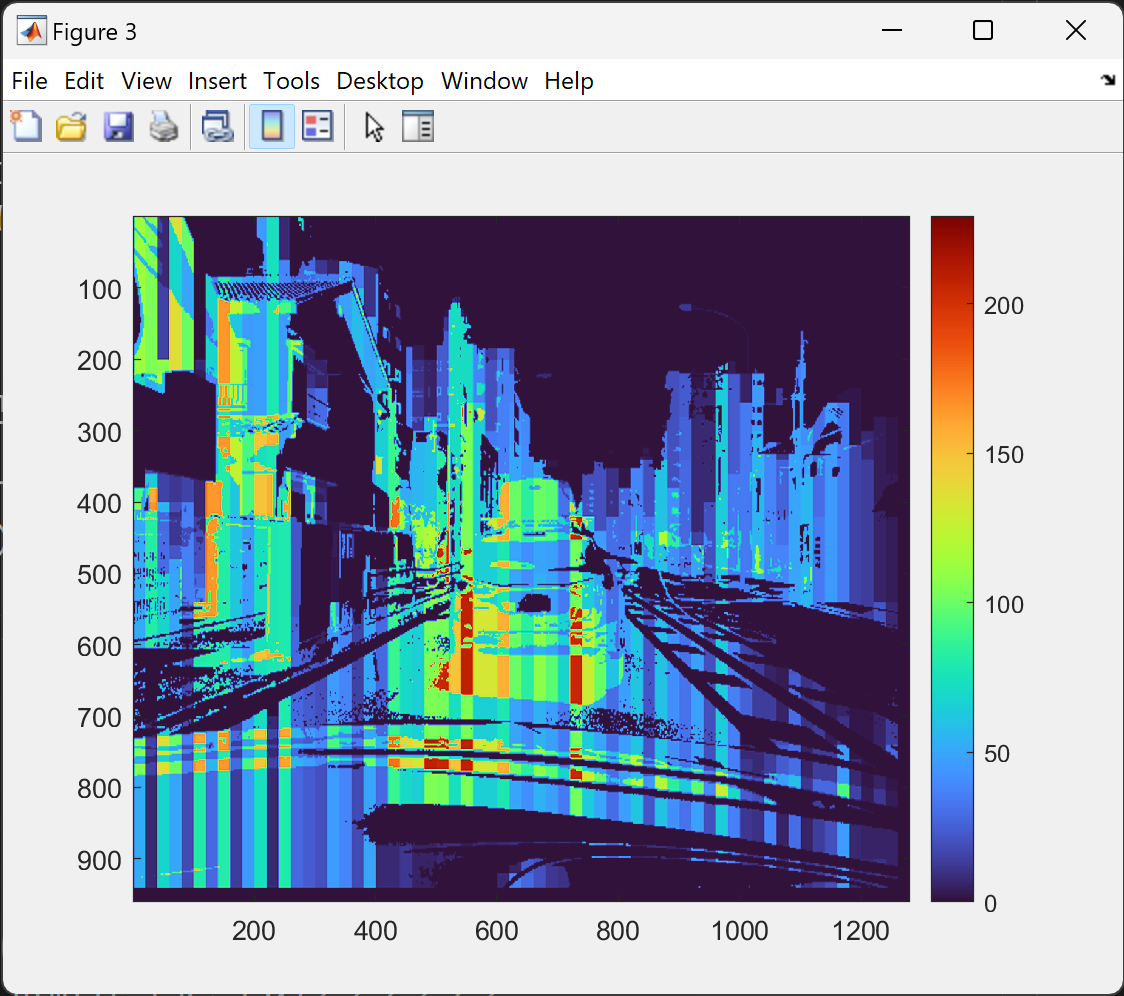
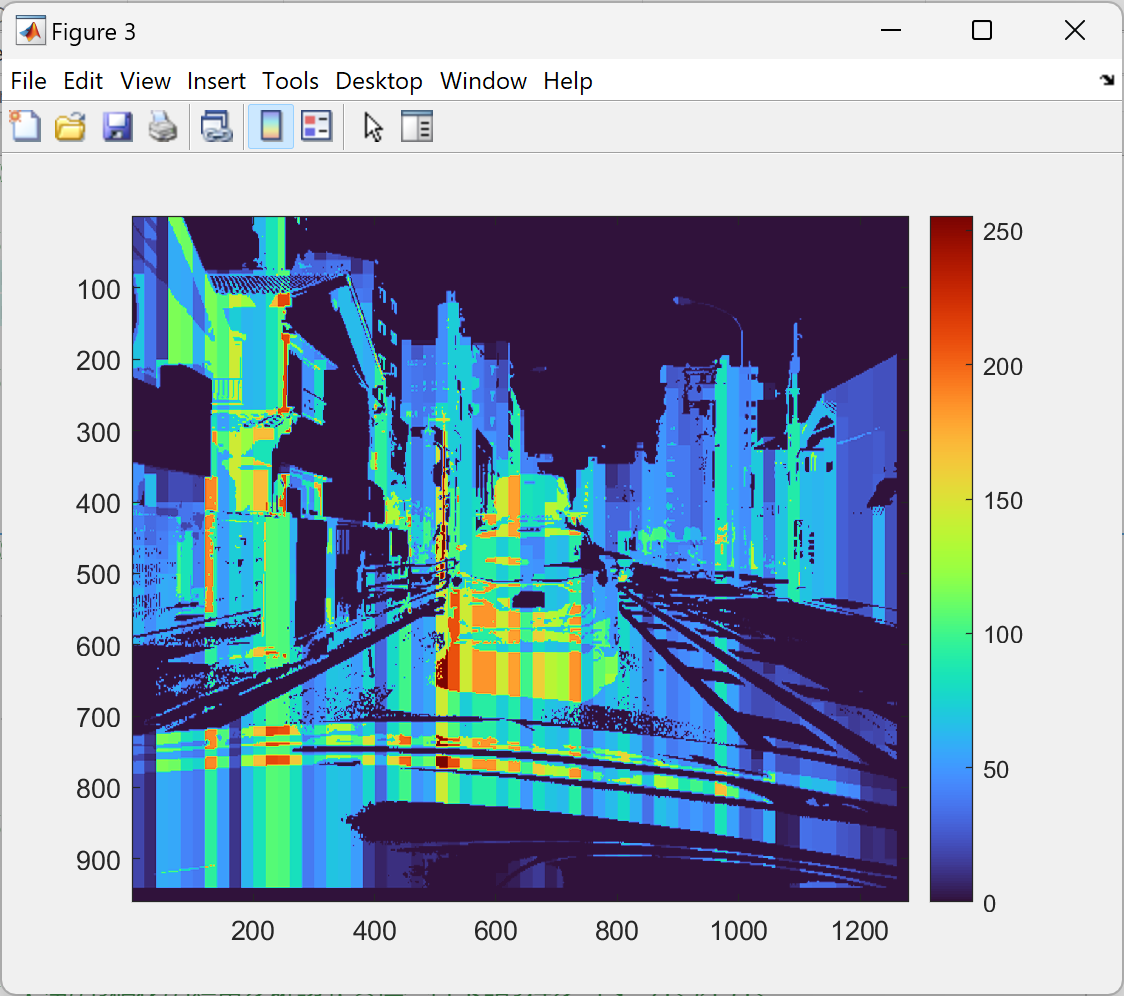
fixed code

diff --git a/main.m b/main.m
@@ -29,7 +29,7 @@ ref_val(ref_gray_bk >= gthresh1) = 0.0;
 
 tick = tic;
 %% sparse defocus blur
-ref_spa = (abs(f_blur(img,4) - (img)));
+ref_spa = (img - (f_blur(img,4)));
 ref_spa = ref_spa(:,:,2);
 e = edge(im2gray(img),'log'); % あとで手実装する    
 ref_spa(e == 0) = 0;
